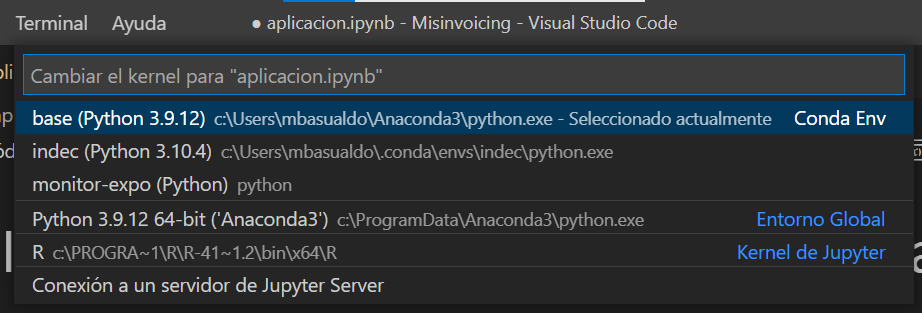
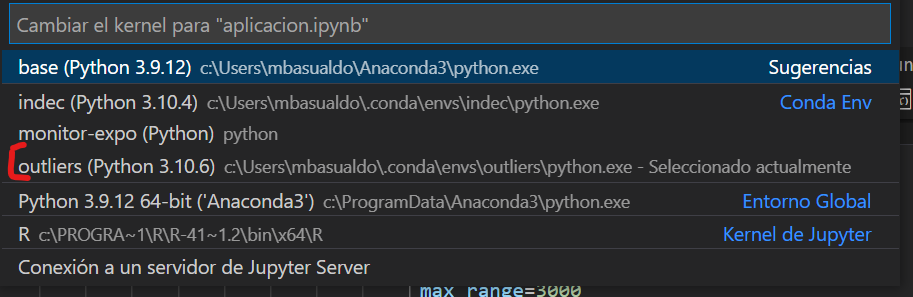
mejora readme

diff --git a/readme.md b/readme.md
@@ -1,12 +1,18 @@
 # Monitor de outliers de facturación
 
-## 1- Importar los datos de SAS
+## 1- Descargar archivos desde GITHUB
 
-Correr los dos códigos de SAS. Son archivos pesados, por lo que recomiendo tener paciencia. Los csv se van a guardar en esta ruta "/srv/sas/secex/home/mbasualdo", si quieren, cambienlo a una carpeta que ustedes quieran. 
+En la página de GITHUB, descargar el .zip. 
+
+![Descarga GITHUB](assets/0-descargar%20github.png)
+
+## 2- Importar los datos de SAS
+
+Correr los dos códigos de SAS ("item expo completisimo" e "item impo completisimo"). Son archivos pesados, por lo que recomiendo tener paciencia. Los csv se van a guardar en esta ruta "/srv/sas/secex/home/mbasualdo", si quieren, cambienlo a una carpeta que ustedes quieran. 
 
 Con el WINSCP transfieran los dos csv a la carpeta "data". Es importante que sea con el WINSCP, no exporten desde la consola del sas. 
 
-## 2- Crear un ambiente en python
+## 3- Crear un ambiente en python
 
 Tienen instalado anaconda. En el buscador de windows busquen "Anaconda Prompt (Anaconda 3)", abranlo y escriba el siguiente código (enter para "proceder"):
 
@@ -18,7 +24,24 @@ Crearon un ambiente llamado "outliers", pero le faltan los paquetes. Primero se 
 
 `pip install pandas plotly ipykernel nbformat xlsxwriter` 
 
-## 3- Abrir y correr el códgo
+## 4- Abrir y correr el códgo
 
-Abrir con el vscode el programa "aplicacion.ipynb", que es un jupyter notebook que sintetiza todo el código. Es un resultado amigable y sencillo de usar, con explicaciones resumidas de las posibilidades. 
+Abrir el programa vs code, luego ir a "Archivo", "Abrir carpeta..."
+
+![](assets/1-abrir%20carpeta.png)
+
+Abrir la carpeta descomprimida (no importa que vean todas las carpetas de la foto)
+
+![](assets/2-ubicacion%20carpeta.png)
+
+Abrir el programa "aplicacion.ipynb
+![](assets/3-%20aplicion%20ipynb.png)
+
+Seleccionar el "kernel" a utilizar, que debe tener el nombre del ambiente creado ("outliers")
+
+![](assets/4-ubicacion%20kernel.png)
+
+![](assets/5-%20seleccion%20del%20kernel.png)
+
+Y listo! Ya pueden "Ejecutar todo" el código. Tienen una explicación detallada en el mismo, pero cualquier cosa, no duden en acercarse a Luca o a mí (Martín).
 
